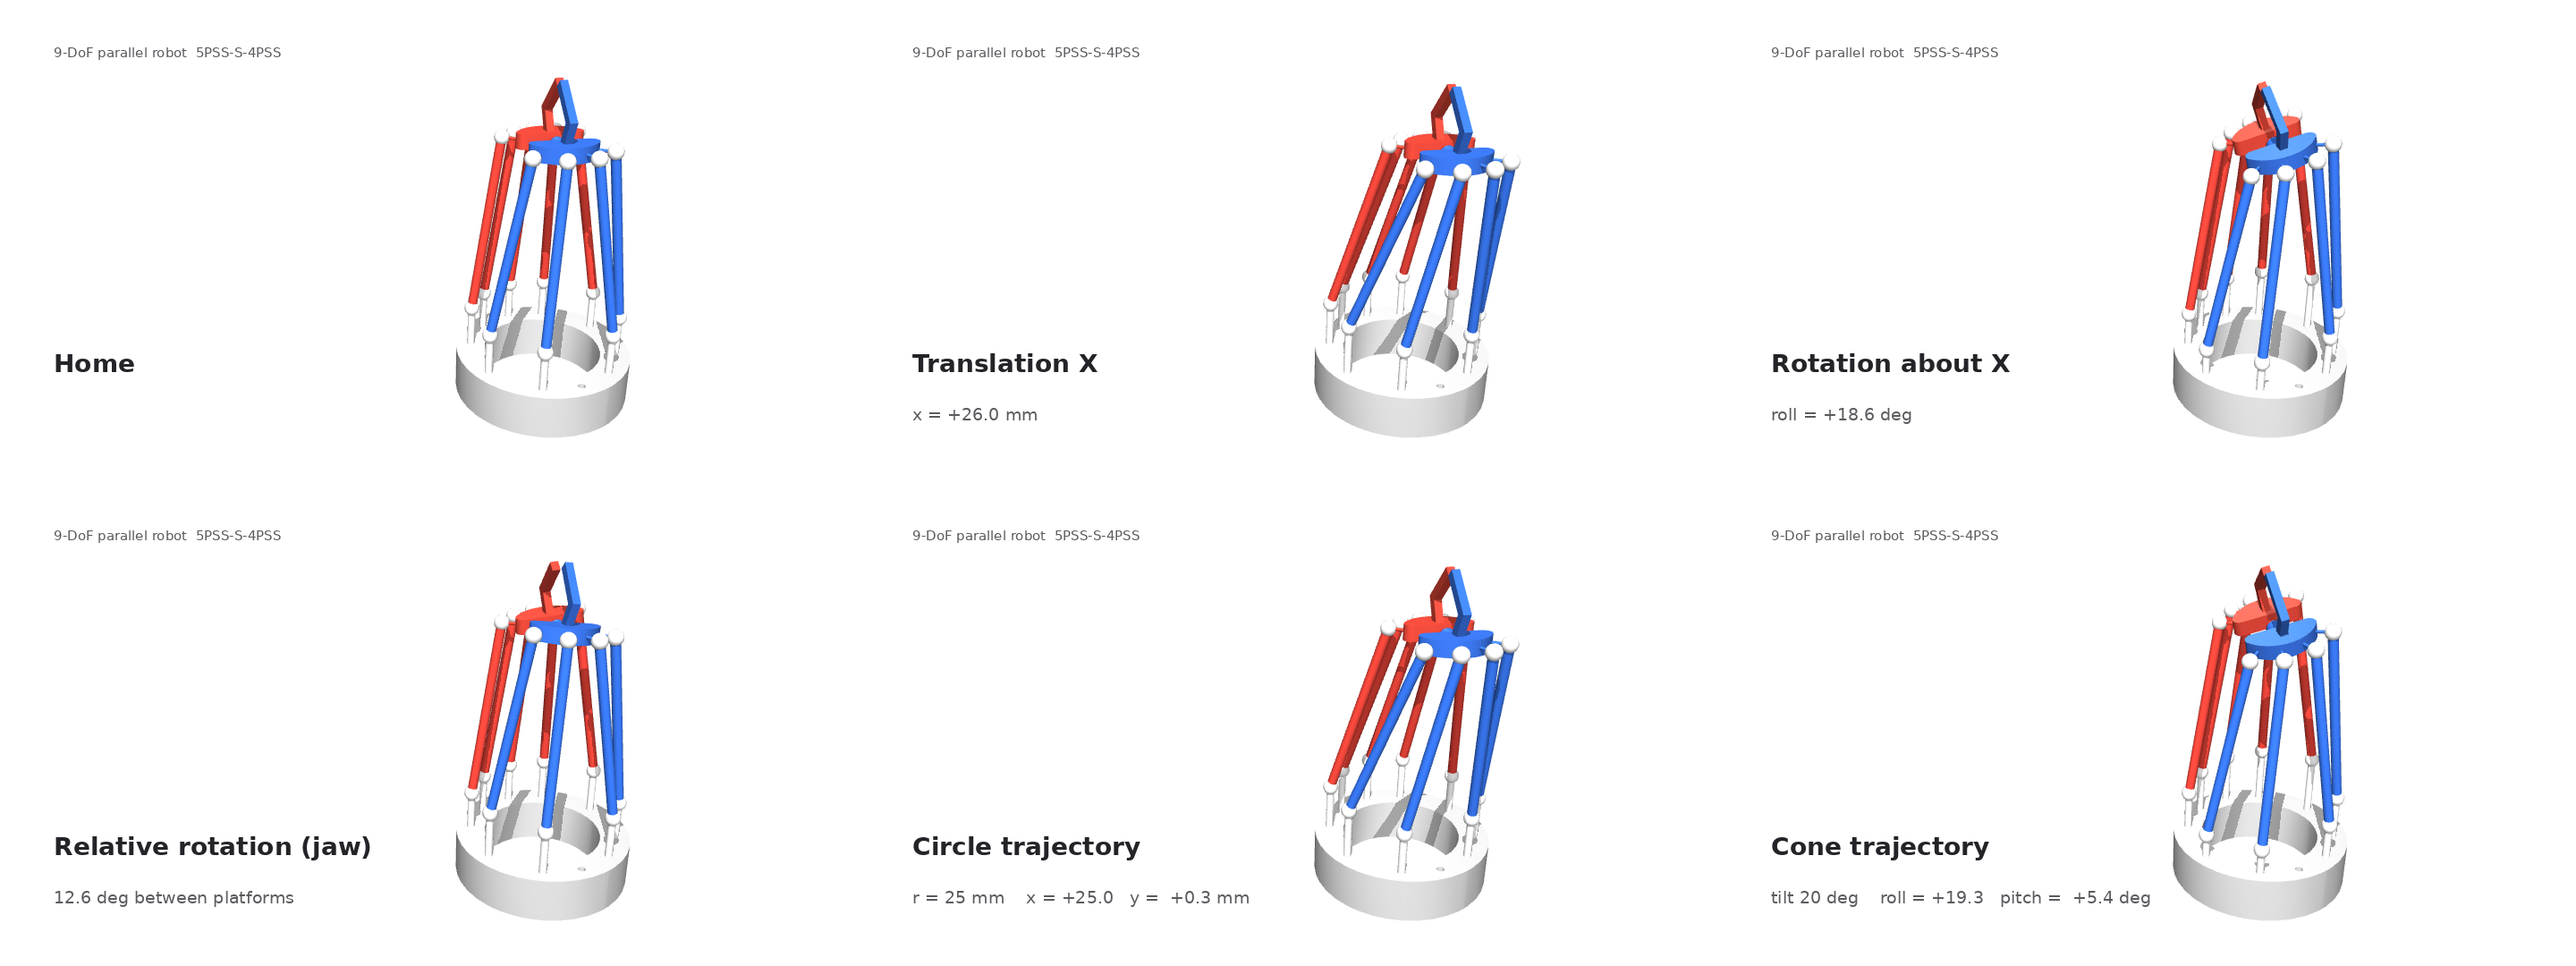
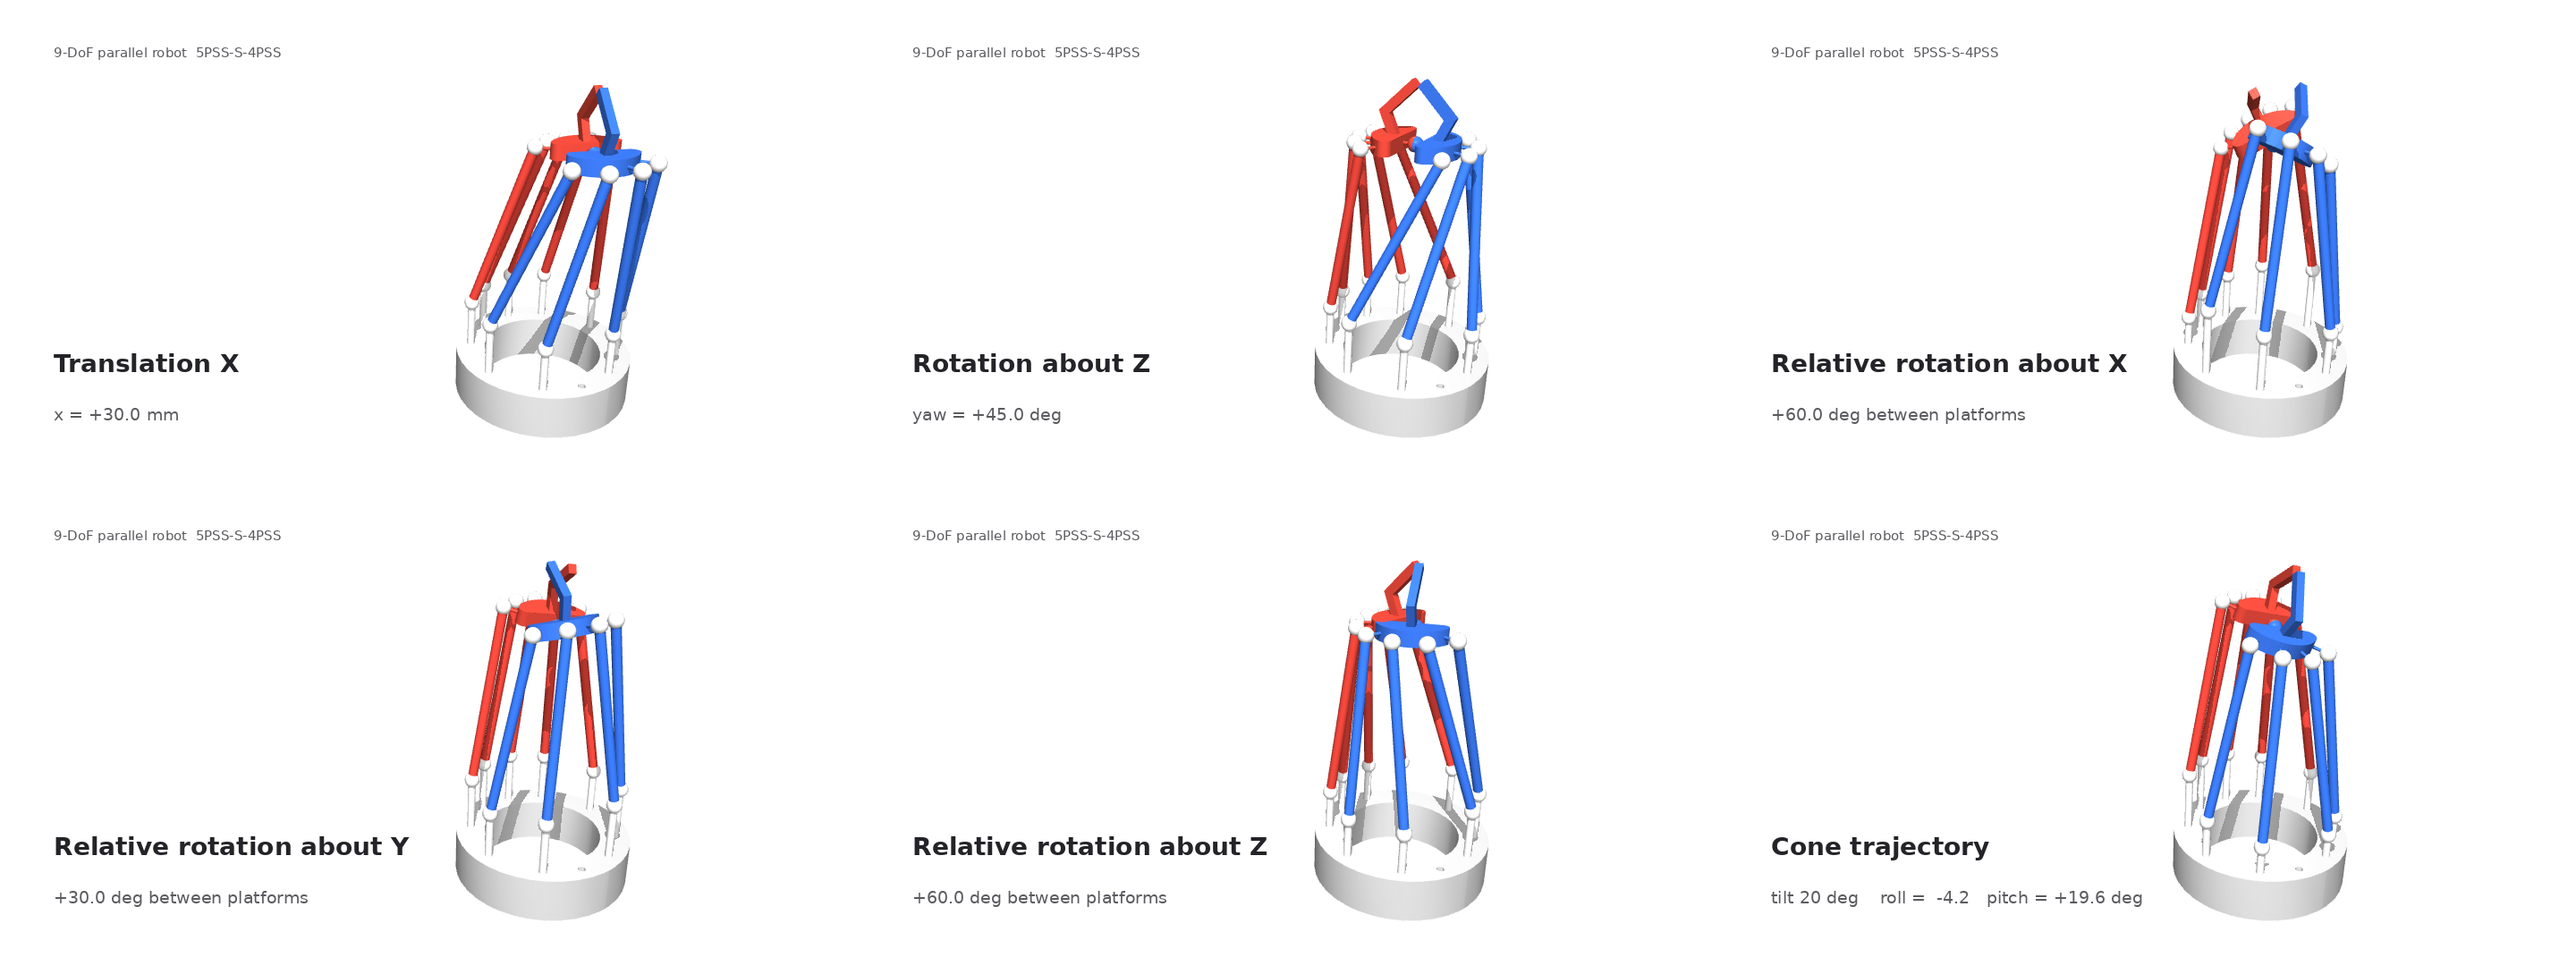
Show the three relative rotations between the platforms
The showcase now rotates the platforms against each other about X
(gripper), Y and Z, instead of only about X. Tests check that each
relative rotation turns both platforms about the same axis.

diff --git a/src/ninedof_kinematics/ninedof_kinematics/showcase.py b/src/ninedof_kinematics/ninedof_kinematics/showcase.py
@@ -4,11 +4,14 @@ Shows the degrees of freedom one family at a time, then two smooth
 trajectories, always starting and ending at home:
 
     translations X, Y, Z -> rotations roll, pitch, yaw (both platforms together)
-    -> relative rotation (jaw) -> circle -> cone
+    -> relative rotations about X, Y, Z (platforms against each other)
+    -> circle -> cone
 
-A pose is built from v = (x, y, z, roll, pitch, yaw, jaw):
+A pose is built from v = (x, y, z, roll, pitch, yaw, rel_x, rel_y, rel_z):
     p  = home + [x, y, z]
-    Q1 = R Rx(+jaw),  Q2 = R Rx(-jaw),  R = Rz(yaw) Ry(pitch) Rx(roll)
+    Q1 = R S,  Q2 = R S^T,  R = Rz(yaw) Ry(pitch) Rx(roll),
+    S = Rz(rel_z) Ry(rel_y) Rx(rel_x)
+so the platforms turn by rel in opposite directions (2 rel between them).
 Every piece is eased with smootherstep: zero velocity and acceleration at the
 start and end of each piece.
 """
@@ -20,7 +23,7 @@ import numpy as np
 from ninedof_kinematics.kinematics import rot_x, rot_y, rot_z, xyz_from_rot
 
 MM, DEG = 1e-3, math.pi / 180.0
-KEYS = ('x', 'y', 'z', 'roll', 'pitch', 'yaw', 'jaw')
+KEYS = ('x', 'y', 'z', 'roll', 'pitch', 'yaw', 'rel_x', 'rel_y', 'rel_z')
 
 
 def params(**kw):
@@ -28,10 +31,11 @@ def params(**kw):
 
 
 def pose_from_params(home, v):
-    x, y, z, roll, pitch, yaw, jaw = v
+    x, y, z, roll, pitch, yaw, rel_x, rel_y, rel_z = v
     R = rot_z(yaw) @ rot_y(pitch) @ rot_x(roll)
-    return np.r_[np.asarray(home[:3]) + [x, y, z], xyz_from_rot(R @ rot_x(jaw)),
-                 xyz_from_rot(R @ rot_x(-jaw))]
+    S = rot_z(rel_z) @ rot_y(rel_y) @ rot_x(rel_x)
+    return np.r_[np.asarray(home[:3]) + [x, y, z], xyz_from_rot(R @ S),
+                 xyz_from_rot(R @ S.T)]
 
 
 def smootherstep(s):
@@ -71,9 +75,13 @@ def segments():
          _swing('pitch', 20 * DEG, 4.5)),
         ('Rotation about Z', lambda v: f'yaw = {v[5] / DEG:+5.1f} deg',
          _swing('yaw', 45 * DEG, 5.0)),
-        ('Relative rotation (jaw)', lambda v: f'{2 * v[6] / DEG:4.1f} deg between platforms',
-         [(_line(params(), params(jaw=30 * DEG)), 1.5),
-          (_line(params(jaw=30 * DEG), params()), 1.5)] * 2),
+        ('Relative rotation about X', lambda v: f'{2 * v[6] / DEG:+5.1f} deg between platforms',
+         [(_line(params(), params(rel_x=30 * DEG)), 1.5),
+          (_line(params(rel_x=30 * DEG), params()), 1.5)]),
+        ('Relative rotation about Y', lambda v: f'{2 * v[7] / DEG:+5.1f} deg between platforms',
+         _swing('rel_y', 15 * DEG, 4.5)),
+        ('Relative rotation about Z', lambda v: f'{2 * v[8] / DEG:+5.1f} deg between platforms',
+         _swing('rel_z', 30 * DEG, 4.5)),
         ('Circle trajectory',
          lambda v: f'r = 25 mm    x = {v[0] / MM:+5.1f}   y = {v[1] / MM:+5.1f} mm',
          _loop(lambda a: params(x=r * math.cos(a), y=r * math.sin(a)), 5.0)),

diff --git a/src/ninedof_kinematics/test/test_showcase.py b/src/ninedof_kinematics/test/test_showcase.py
@@ -1,10 +1,11 @@
+import math
 import os
 
 import numpy as np
 import pytest
 
 from ninedof_kinematics.kinematics import NineDofKinematics
-from ninedof_kinematics.showcase import Showcase
+from ninedof_kinematics.showcase import Showcase, params, pose_from_params
 
 GEOMETRY = os.path.join(os.path.dirname(__file__), '..', '..', 'ninedof_description',
                         'config', 'geometry.yaml')
@@ -39,6 +40,23 @@ def test_covers_every_family_of_motion(setup):
     _, show = setup
     labels = {p[3] for p in show.pieces}
     for name in ('Translation X', 'Translation Y', 'Translation Z', 'Rotation about X',
-                 'Rotation about Y', 'Rotation about Z', 'Relative rotation (jaw)',
+                 'Rotation about Y', 'Rotation about Z', 'Relative rotation about X',
+                 'Relative rotation about Y', 'Relative rotation about Z',
                  'Circle trajectory', 'Cone trajectory'):
         assert name in labels
+
+
+@pytest.mark.parametrize('axis', [0, 1, 2])
+def test_relative_rotations_turn_the_platforms_against_each_other(setup, axis):
+    kin, _ = setup
+    a = 0.2
+    v = params(**{('rel_x', 'rel_y', 'rel_z')[axis]: a})
+    _, Q1, Q2 = kin.split(pose_from_params(kin.home, v))
+    rel = Q1.T @ Q2          # rotation of platform 2 seen from platform 1
+    angle = math.acos((np.trace(rel) - 1) / 2)
+    assert angle == pytest.approx(2 * a)
+    assert abs(Q1 @ Q2.T - np.eye(3)).max() > 0.1   # not a common rotation
+    e = np.zeros(3)
+    e[axis] = 1.0
+    np.testing.assert_allclose(Q1 @ e, e, atol=1e-12)   # both turn about the same axis
+    np.testing.assert_allclose(Q2 @ e, e, atol=1e-12)

diff --git a/README.md b/README.md
@@ -13,9 +13,9 @@ ROS 2 description, kinematics, control and simulation of the 9-DOF
 
 The robot has two moving platforms joined by a passive spherical joint and
 driven by nine linear actuators: five legs move platform 1 (red) and four legs
-move platform 2 (blue). It provides 3 translations and 6 rotations — the two
-platforms can rotate together or relative to each other, which opens and
-closes the gripper.
+move platform 2 (blue). It provides 3 translations and 6 rotations: 3 rotations
+of both platforms together and 3 relative rotations of one platform against the
+other (the relative rotation about X opens and closes the gripper).
 
 ## Packages
 
@@ -83,7 +83,8 @@ the geometry: `python3 src/ninedof_description/scripts/generate_mjcf.py`.
 
 ![Showcase frames](docs/showcase_frames.png)
 
-Translations, rotations of both platforms together, relative rotation (gripper),
+Translations, rotations of both platforms together, relative rotations of the
+platforms against each other about X, Y and Z (X opens and closes the gripper),
 a circle and a cone. Every frame is the exact pose of the trajectory with the
 actuators given by the inverse kinematics; the whole sequence uses at most
 18 mm of the 25 mm actuator stroke.
@@ -92,7 +93,7 @@ actuators given by the inverse kinematics; the whole sequence uses at most
 |---|---|
 | Translation X / Y / Z | ±30 / ±30 / ±15 mm |
 | Rotation about X / Y / Z | ±20° / ±20° / ±45° |
-| Relative rotation (gripper) | 0–30° per platform |
+| Relative rotation about X / Y / Z | 0–60° / ±30° / ±60° between platforms |
 | Circle / cone | radius 25 mm / tilt 20° |
 
 ```bash
